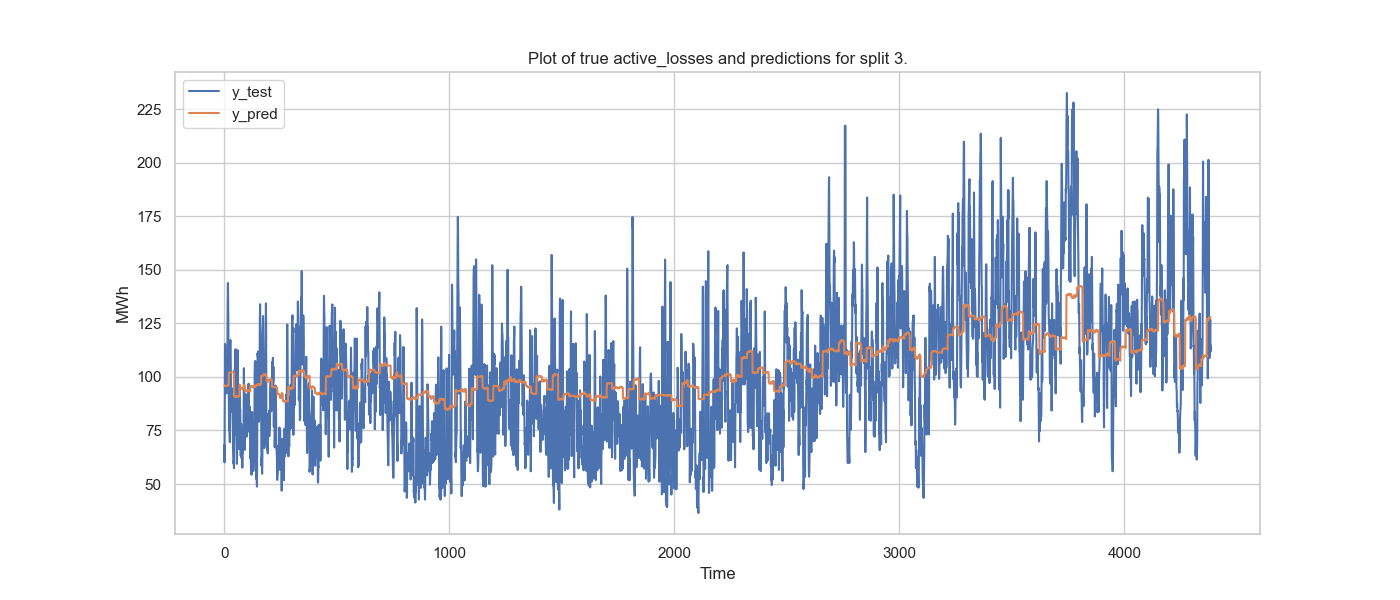
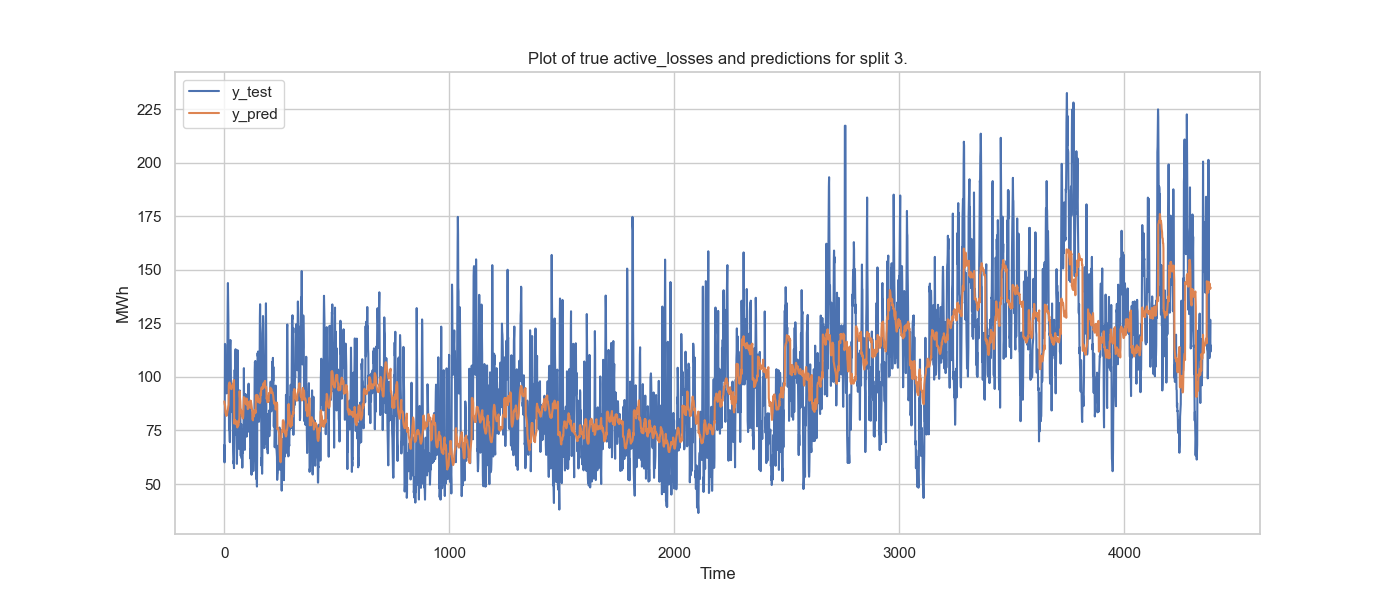
expanding the README file

Changed region(s): [[0.1536, 0.42, 0.86, 0.78]]

diff --git a/main.py b/main.py
@@ -34,7 +34,7 @@ if __name__ == '__main__':
 
     # Hyperparameter tuning using Optuna
     study = optuna.create_study(direction='minimize')
-    study.optimize(lambda trial: objective(trial, X, y, preprocessor, splits), n_trials=2, timeout=3600*0.5)
+    study.optimize(lambda trial: objective(trial, X, y, preprocessor, splits), n_trials=50, timeout=3600*0.5)
 
     # Visualize the prediction of the model on the testing data with the best hyperparameters
     visualize_model_predictions(splits, X, y, preprocessor, study.best_params)

diff --git a/README.md b/README.md
@@ -1,13 +1,19 @@
 # Active_losses_Swissgrid
 
 ## Overview
-Swissgrid took part to a Machine Learning Hackaton with the goal of predicting the active losses for the grid. The result were impressived and can be found here [here](https://github.com/Swissgrid-AG-External/energydatahackdays23/tree/d5f88f3ff117ffcaafd43167e6357f7a5bfbc4a2/group3). The results were very impressive and many stakeholders were keen to see the results on internal data instead of old data.
+Swissgrid took part to a Machine Learning Hackaton with the goal of predicting the active losses for the grid. The originals notebooks can be found here [here](https://github.com/Swissgrid-AG-External/energydatahackdays23/tree/d5f88f3ff117ffcaafd43167e6357f7a5bfbc4a2/group3). The results were very impressive and many stakeholders were keen to see the results on internal data instead of old open data.
 
 This repository corresponds to a proposal of solution for the ML Engineer Challenge that can be found [here](https://github.com/Swissgrid-AG-External/coding_challenges/blob/main/ml_engineer/intern/README.md). The 3 main goals of this challenge are the followings:
 1. write a markdown file (Approach.md) to describe the approach taken
 2. Refactor the notebooks into clean, well-organized pyhton file while preserving existing functionnalities. The primary goal was to enhance code structure, readability, and maintainability.
 3. Change or add 1 or 2 functions to the script
 
+The proposed solution offers a more understandable and easy to use code that achieves the following:
+- loading of the data 
+- preprocessing of the data and addition of useful features (time, date, holidays, cyclical_features, lag features)
+- finetuning ElasticNet model 
+- visualizing of predictions over test data 
+- training model on entire dataset with best hyperparameters and saving it for later use
 
 ## Installation
 Python 3.11.5 was used for this project
@@ -15,11 +21,12 @@ Python 3.11.5 was used for this project
 - conda activate active_loss
 
 ## Structure of the code
-
 ```
 ├── README.md
 ├── Approach.md
-├── __init__.py
+├── notebooks
+│   ├── 0_Data Preprocessing Base.ipynb
+│   └── 2_ElasticNet.ipynb
 ├── data
 │   ├── processed
 │   │   └── df_preprocessed.csv
@@ -30,36 +37,33 @@ Python 3.11.5 was used for this project
 │       ├── eq_renewables.csv
 │       └── eq_temp.csv
 ├── main.py
-├── parameter_tuning.py
-├── pipeline.py
-├── preprocessing.py
-├── project_structure.txt
-├── training.py
-├── util.py
-├── environment.yml
+├── src
+│   ├── __init__.py
+│   ├── parameter_tuning.py
+│   ├── pipeline.py
+│   ├── preprocessing.py
+│   ├── training.py
+│   ├── util.py
+│   └── visualization.py
+├── plots
 ├── saved_models
-│   ├── best_model_hyperparams.pickle
-│   ├── final_model.pickle
-│   ├── trials_tuning_optuna.csv
-│   └── sklearn_base_pipeline_unfitted.pickle
-└── notebooks
-   ├── 0_Data Preprocessing Base.ipynb
-   └── 2_ElasticNet.ipynb
+└── environment.yml
 ```
 
-
-## Data
+## Stucture of the data folder
+For more details on the raw data refer to [data_explanation.md](https://github.com/yanis-trn/Active_losses_Swissgrid/blob/main/data/raw/data_explanation.md). For more details on preprocessed data refer to the preprocessing.py file.
 ```
-
 ├── data
 │   ├── processed
-│   │   └── df_preprocessed.csv
+│   │   └── df_preprocessed.csv     <- generated by the code after preprocessing and feature engineering 
 │   └── raw
-│       ├── Active-Losses.csv
-│       ├── NTC.csv
-│       ├── data_explanation.md
-│       ├── eq_renewables.csv
-│       └── eq_temp.csv
+│       ├── data_explanation.md     
+│       ├── Active-Losses.csv       <- historical active losses data, unit: kWh per 15 minutes
+│       ├── NTC.csv                 <- net transfer capacity between two areas
+│       ├── eq_renewables.csv       <- forecast-renewable-generation (unit: MW)
+│       └── eq_temp.csv             <- forecast temperature (unit: °C)
 ```
 
-
+## Aditionnal visualization of the forecasting quality
+In order for different stakeholders to realize and assess the quality of the forecasting an additionnal function (visualize_model_predictions) was added. It allows to easily save plots of the predictions from the ElasticNet model with the best hyperparameters. Such a plot is represented below:
+![Example image](plots/line_plot_3.png)
